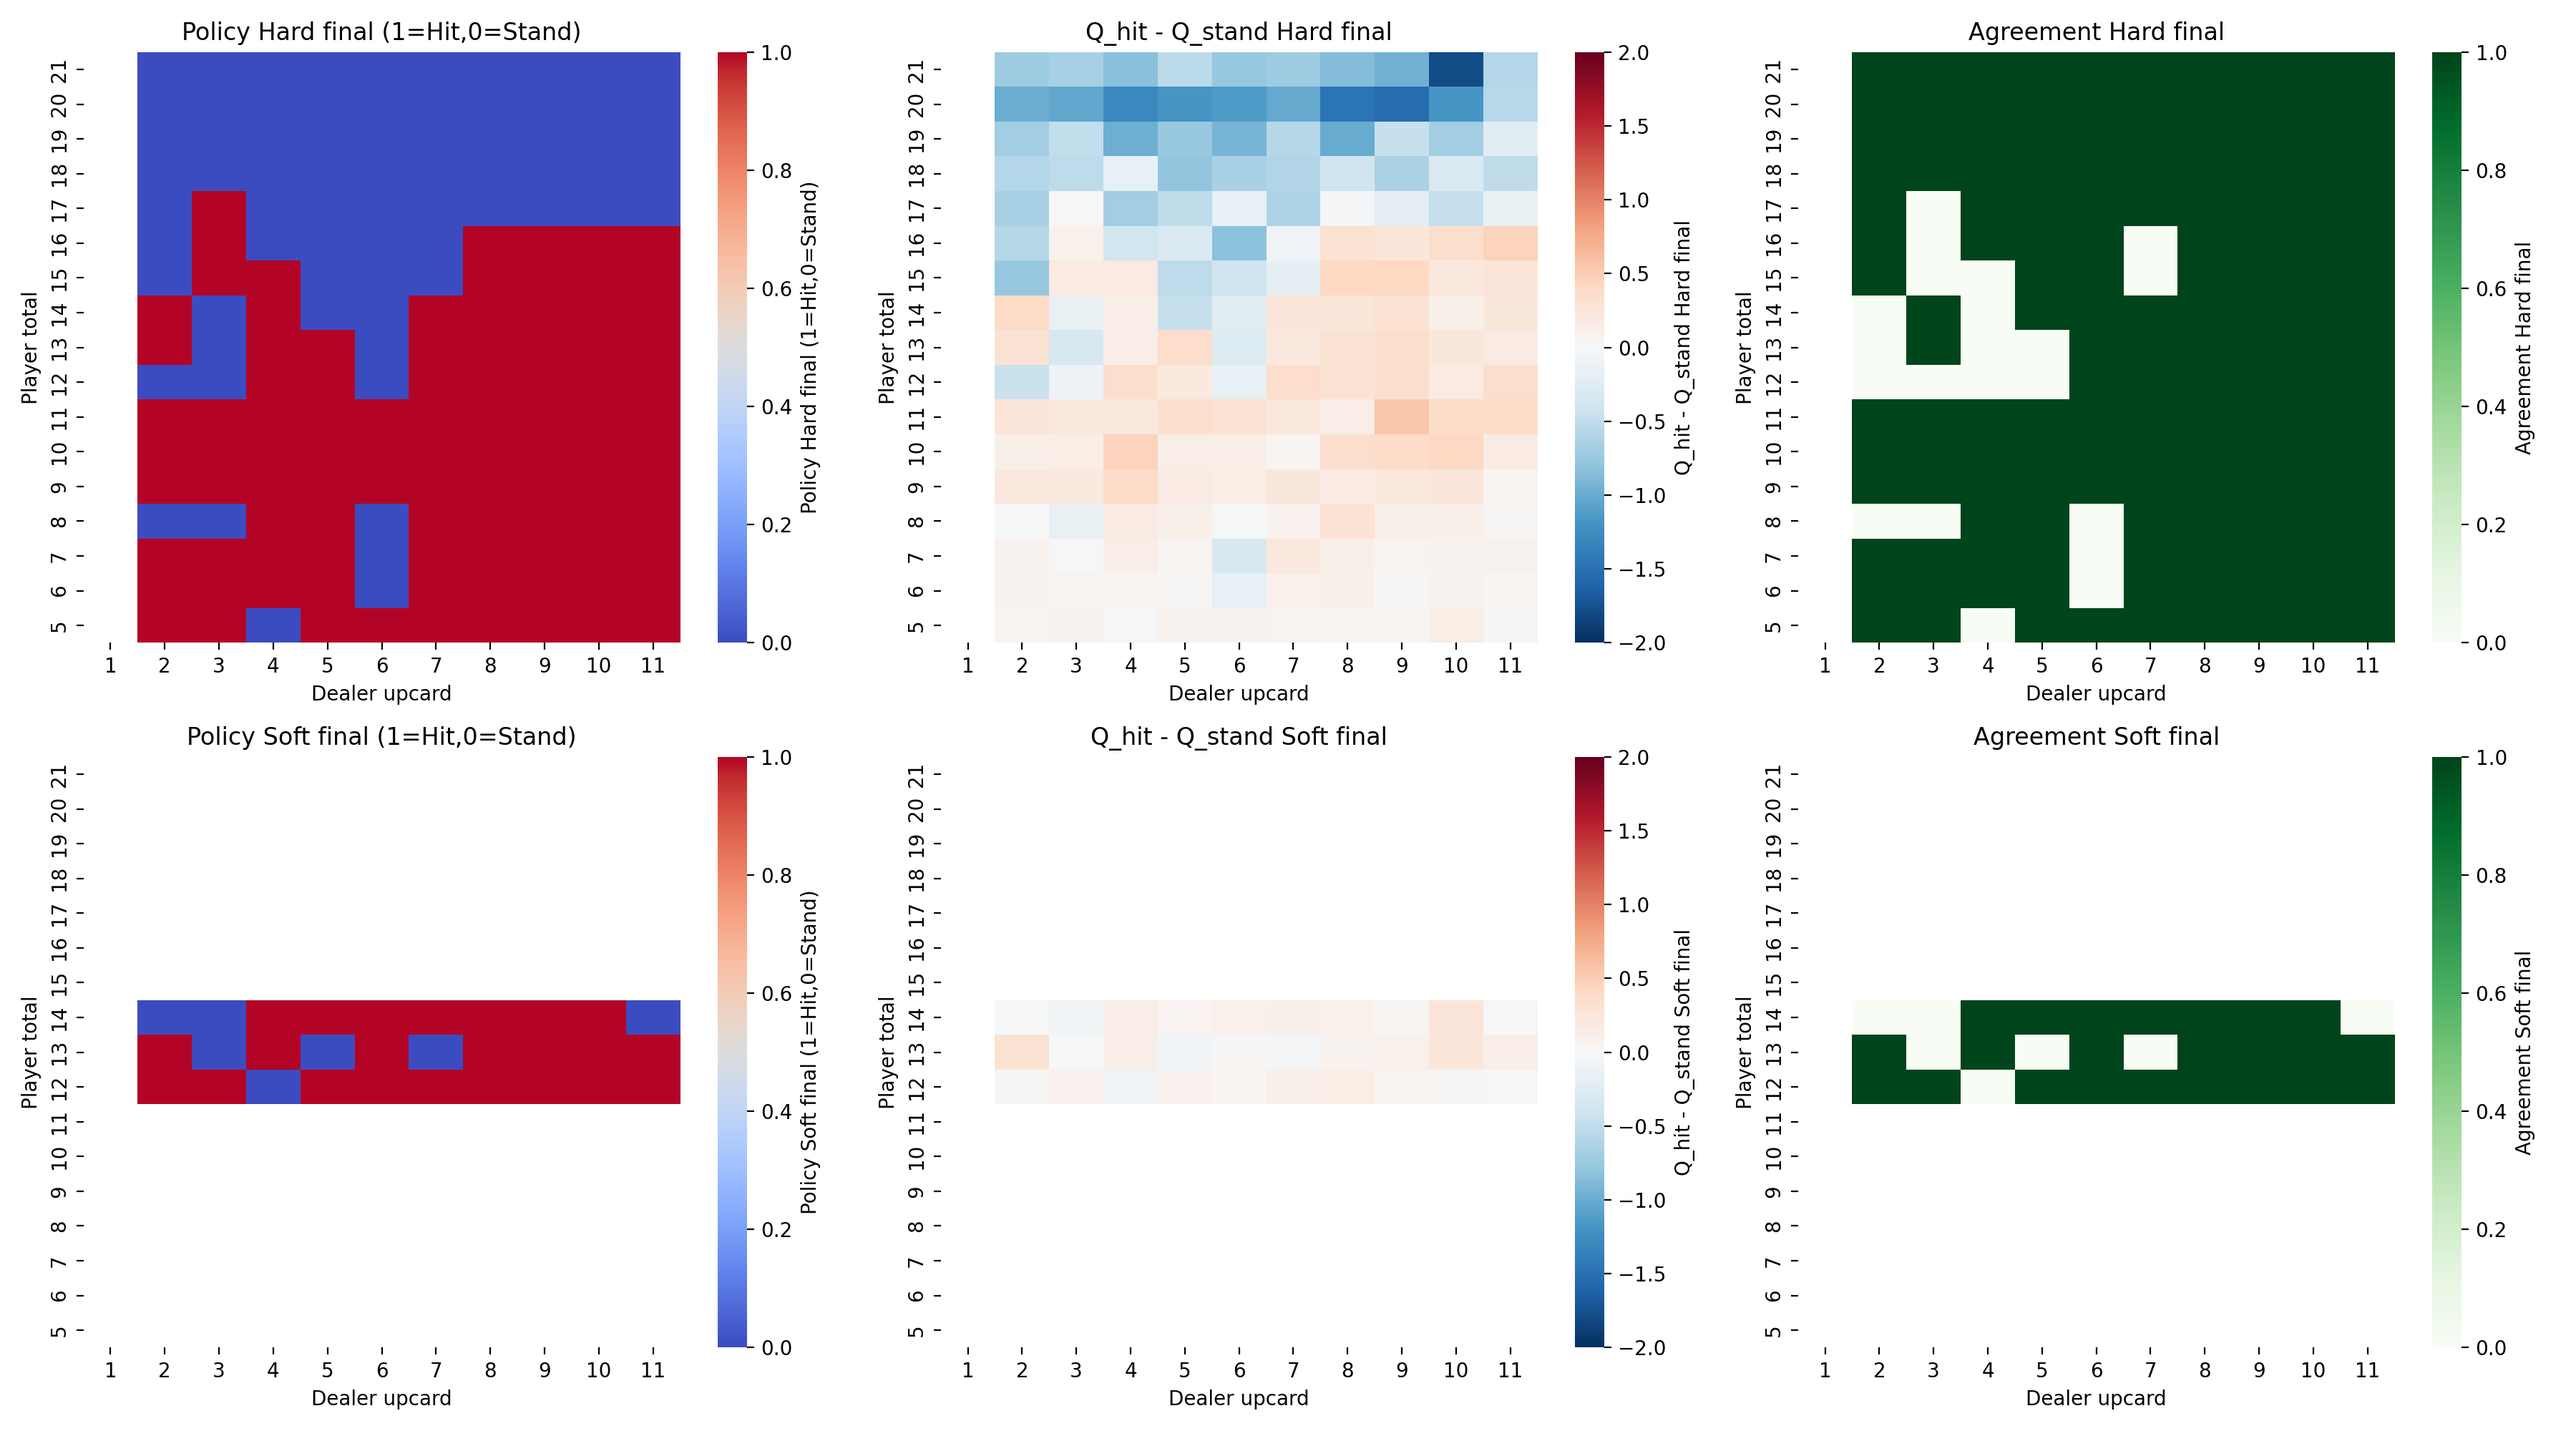
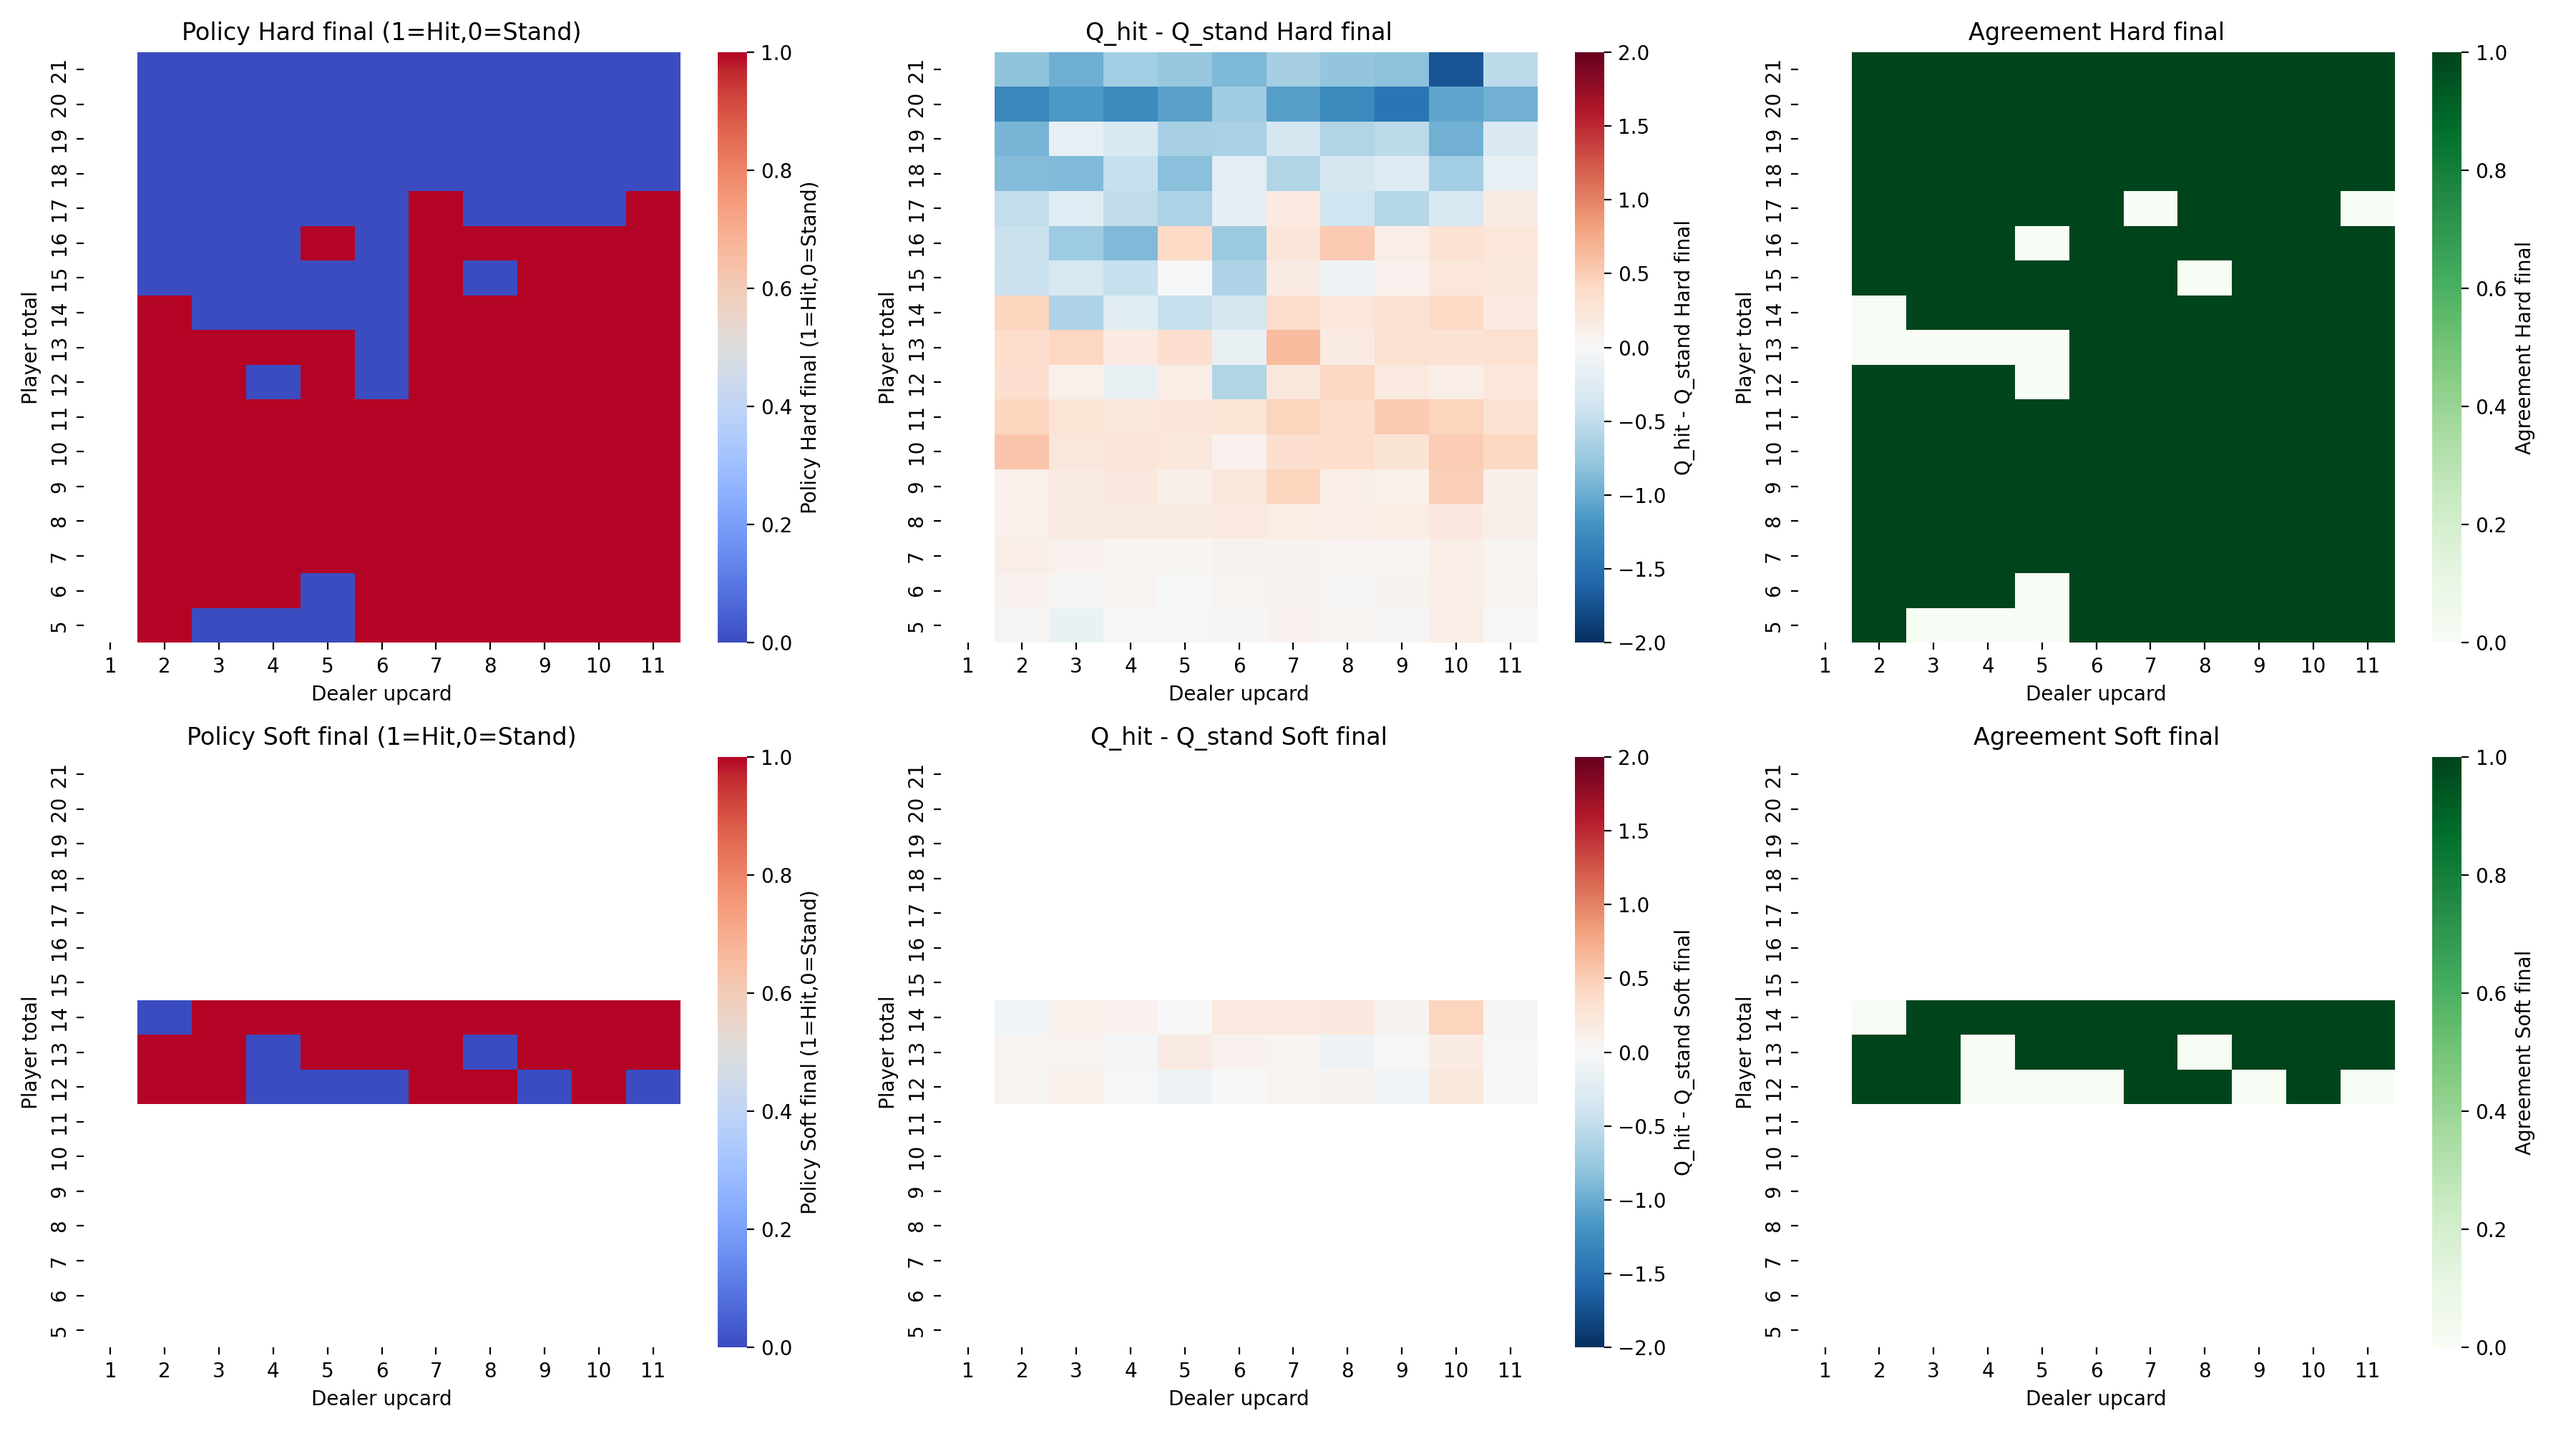
Updating evaluatory methods and visualizations for Q-agent - folders of developing heat maps over episodes (policy and Q diffs) - new graph for accuracy evaluated - commenting out logging lines ubt kept in case of need - created basic strategy heat map to know for policy comparison - each time it is

diff --git a/q-agent.py b/q-agent.py
@@ -15,7 +15,7 @@ def main():
     Q, state_visits, diffs, win_amt, total_return, accuracies, checkpoint_Qs, checkpoint_episodes = train(alpha, gamma, epsilon, episodes, bankroll)
     #understanding_q(Q, state_visits)
     eval(win_amt, total_return, episodes)
-    #eval_accuracy(accuracies, episodes=2500)
+    eval_accuracy(accuracies, episodes=2500, save=True)
     plot_policy_and_agreement(Q, title_suffix='final', savepath='policy_final.png')
     plot_evolution(checkpoint_Qs, checkpoint_episodes, ncols=3, save_prefix='policy_evo')
 
@@ -54,7 +54,8 @@ def train(alpha=0.1, gamma=0.9, epsilon=1.0, episodes=50000, bankroll=100):
     for epi in range(episodes):
         # check accuracy every 2500 episodes
         if (epi+1) % 2500 == 0:
-            print("Checking accuracy at episode ", epi+1)
+            # Can uncomment for logging
+            # print("Checking accuracy at episode ", epi+1)
             check_accuracy(Q, accuracies, episodes=2500, bankroll=environment.bankroll)
             checkpoint_Qs.append({k: v.copy() for k, v in Q.items()})
             checkpoint_episodes.append(epi+1)
@@ -102,10 +103,10 @@ def train(alpha=0.1, gamma=0.9, epsilon=1.0, episodes=50000, bankroll=100):
         win_amt += 1 if total_reward > 0 else 0
         total_return += total_reward
 
-        player_total, _ = environment.calculate_hand_value(environment.player_hand)
-        dealer_total, _ = environment.calculate_hand_value(environment.dealer_hand)
-        if (epi + 1) % 900 == 0:
-            print(f"Episode {epi+1} ended. Player total: {player_total}, Dealer total: {dealer_total}, Reward: {total_reward}")
+        # Can uncomment for detailed episode logs
+        # player_total, _ = environment.calculate_hand_value(environment.player_hand)
+        # dealer_total, _ = environment.calculate_hand_value(environment.dealer_hand)
+        # print(f"Episode {epi+1} ended. Player total: {player_total}, Dealer total: {dealer_total}, Reward: {total_reward}")
 
         # Phased decay epsilon
         if epi <= .1*episodes:
@@ -135,8 +136,8 @@ def random_agent():
     episodes = 50000 # number of training episodes
 
     for epi in range(episodes):
-        
-        print(f"Episode {epi + 1}, Bankroll: {environment.bankroll}, Random Agent")
+        # Can uncomment for detailed episode logs
+        # print(f"Episode {epi + 1}, Bankroll: {environment.bankroll}, Random Agent")
 
         bet = 1 # standard bet
         environment.place_bet(bet)
@@ -246,7 +247,8 @@ def check_accuracy(Q, accuracies,episodes=1000, bankroll=100):
             environment_test.bankroll += 100
     accuracy = correct / episodes
     accuracies.append(accuracy)
-    print(f"Accuracy over {episodes} episodes: {accuracy}")
+    # Can uncomment for logging
+    # print(f"Accuracy over {episodes} episodes: {accuracy}")
     return accuracy
 
 def eval(win_amt, total_return, episodes):
@@ -269,7 +271,7 @@ def eval_replenish(diffs, diffs_rand=None):
     plt.title('Episodes Since Last Replenishment (Blackjack)')
     plt.show()
 
-def eval_accuracy(accuracies, accuracies_rand=None, episodes=1000):
+def eval_accuracy(accuracies, accuracies_rand=None, episodes=1000, save=False):
     """
     Plots accuracy over time for the Q-learning agent and optionally the random agent.
     Evaluated on epsilon = 0, every batch amount of episodes.
@@ -281,7 +283,10 @@ def eval_accuracy(accuracies, accuracies_rand=None, episodes=1000):
     plt.xlabel(f'Trial (every {episodes} episodes)')
     plt.ylabel('Accuracy')
     plt.title('Accuracy (Blackjack)')
+    if save:
+        plt.savefig("accuracy.png", dpi=200)
     plt.show()
+    
 
 def understanding_q(Q, state_visits):
     """
@@ -387,6 +392,36 @@ def plot_heatmap(grid, player_range, dealer_range, title, cmap='RdBu_r', vmin=No
     ax.set_title(title)
     return ax
 
+def plot_basic_strategy(title_suffix='', savepath=None):
+    """
+    Plots the basic strategy for blackjack.
+    """
+    pr = list(range(4, 22))
+    dr = list(range(2, 12))
+
+    # Basic strategy: 1 = hit, 0 = stand
+    basic_strategy_hard = np.full((len(pr), len(dr)), np.nan)
+    basic_strategy_soft = np.full((len(pr), len(dr)), np.nan)
+
+    for i, p in enumerate(pr):
+        for j, d in enumerate(dr):
+            action = basic_strategy_action(p, d, False)
+            basic_strategy_hard[i, j] = 1 if action == 'hit' else 0
+
+            action = basic_strategy_action(p, d, True)
+            basic_strategy_soft[i, j] = 1 if action == 'hit' else 0
+
+    # Plotting
+    fig, axes = plt.subplots(1, 2, figsize=(15, 6))
+    
+    plot_heatmap(basic_strategy_hard, pr, dr, f'Basic Strategy Hard {title_suffix}', cmap='coolwarm', vmin=0, vmax=1, ax=axes[0])
+    plot_heatmap(basic_strategy_soft, pr, dr, f'Basic Strategy Soft {title_suffix}', cmap='coolwarm', vmin=0, vmax=1, ax=axes[1])
+
+    plt.tight_layout()
+    if savepath:
+        plt.savefig(savepath)
+    plt.show()
+
 def plot_policy_and_agreement(Q, title_suffix='', savepath=None):
     """
     Checks policy from Q table against basic strategy and plot results.
@@ -464,6 +499,8 @@ def plot_evolution(checkpoint_Qs, episodes, ncols=3, save_prefix=None):
         grids = q_to_grids(Qsnap)
         pr = grids['player_range']
         dr = grids['dealer_range']
+
+        # Place into grid axes
         # policy for hard
         ax1 = axes[row, col]
         plot_heatmap(grids['pref_hard'], pr, dr, f'Hard Policy {title}', mask=~grids['covered_hard'], ax=ax1, cmap='coolwarm', vmin=0, vmax=1)
@@ -471,10 +508,31 @@ def plot_evolution(checkpoint_Qs, episodes, ncols=3, save_prefix=None):
         ax2 = axes[row+1, col]
         plot_heatmap(grids['pref_soft'], pr, dr, f'Soft Policy {title}', mask=~grids['covered_soft'], ax=ax2, cmap='coolwarm', vmin=0, vmax=1)
 
-    if save_prefix:
-        plt.savefig(f"{save_prefix}_snapshot_{idx}.png", dpi=200)
+        # individual heat maps (policy)
+        pair_fig, pair_axes = plt.subplots(2, 1, figsize=(6, 8))
+        ax_h, ax_s = pair_axes
+
+        plot_heatmap(grids['pref_hard'], pr, dr, f'Hard Policy {title}', mask=~grids['covered_hard'], ax=ax_h, cmap='coolwarm', vmin=0, vmax=1)
+        plot_heatmap(grids['pref_soft'], pr, dr, f'Soft Policy {title}', mask=~grids['covered_soft'], ax=ax_s, cmap='coolwarm', vmin=0, vmax=1)
+
+        pair_fig.tight_layout()
+        pair_fig.savefig(f"evolution_snaps/episode_{int(epi):04d}_hard_soft.png", dpi=200, bbox_inches='tight', pad_inches=0.02)
+        plt.close(pair_fig)
+
+        # individual heat maps (diffs)
+        diffs_fig, diffs_axes = plt.subplots(2, 1, figsize=(6, 8))
+        ax_h, ax_s = diffs_axes
+
+        plot_heatmap(grids['qdiff_hard'], pr, dr, f'Q_hit - Q_stand Hard', mask=~grids['covered_hard'], ax=ax_h, cmap='RdBu_r', vmin=-2, vmax=2)
+        plot_heatmap(grids['qdiff_soft'], pr, dr, f'Q_hit - Q_stand Soft', mask=~grids['covered_soft'], ax=ax_s, cmap='RdBu_r', vmin=-2, vmax=2)
+
+        diffs_fig.tight_layout()
+        diffs_fig.savefig(f"diff_heatmap_snaps/episode_{int(epi):04d}_hard_soft.png", dpi=200, bbox_inches='tight', pad_inches=0.02)
+        plt.close(diffs_fig)
 
     plt.tight_layout()
+    if save_prefix:
+        plt.savefig(f"{save_prefix}_snapshot_{idx}.png", dpi=200)
     plt.show()
 
 if __name__ == "__main__":
